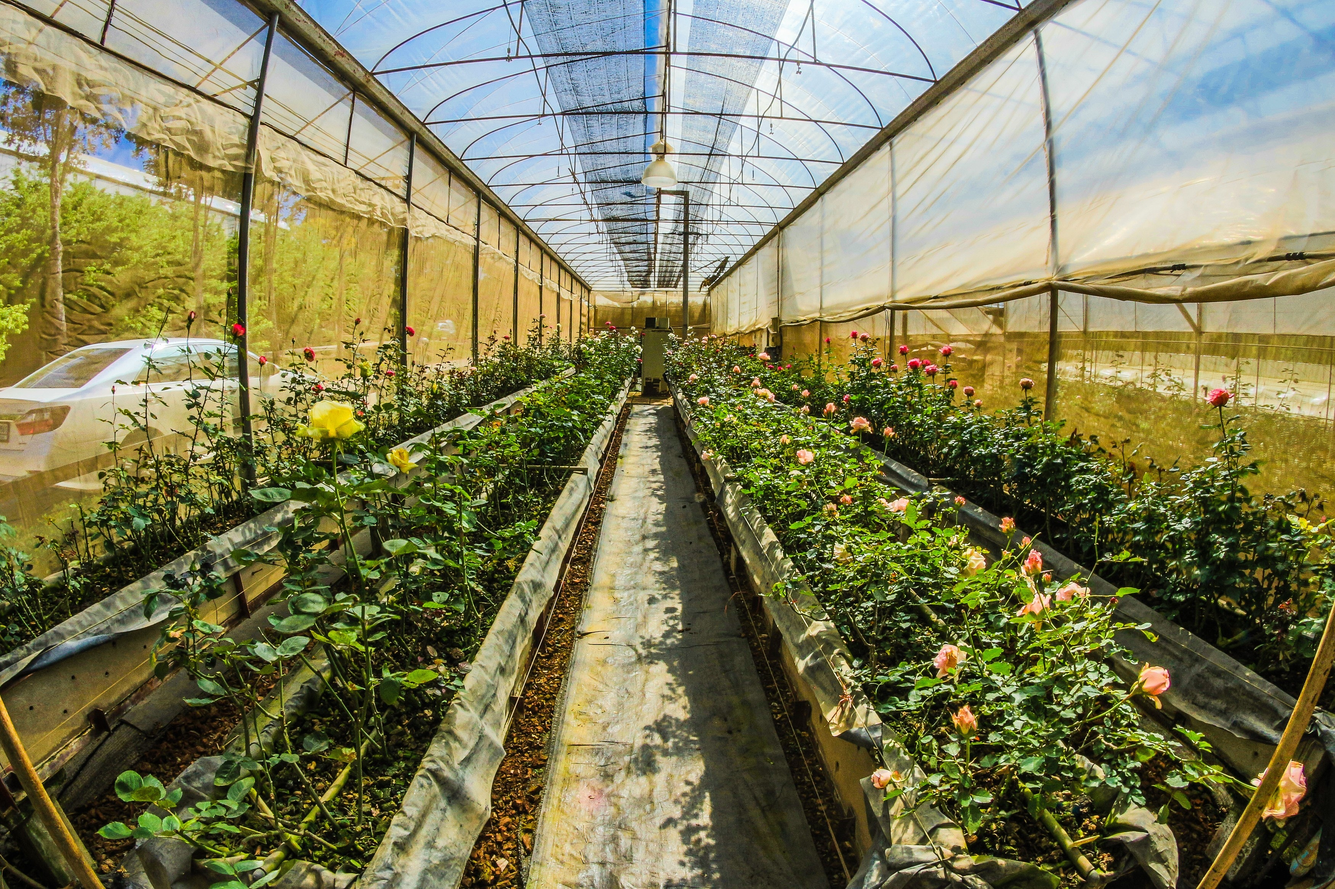
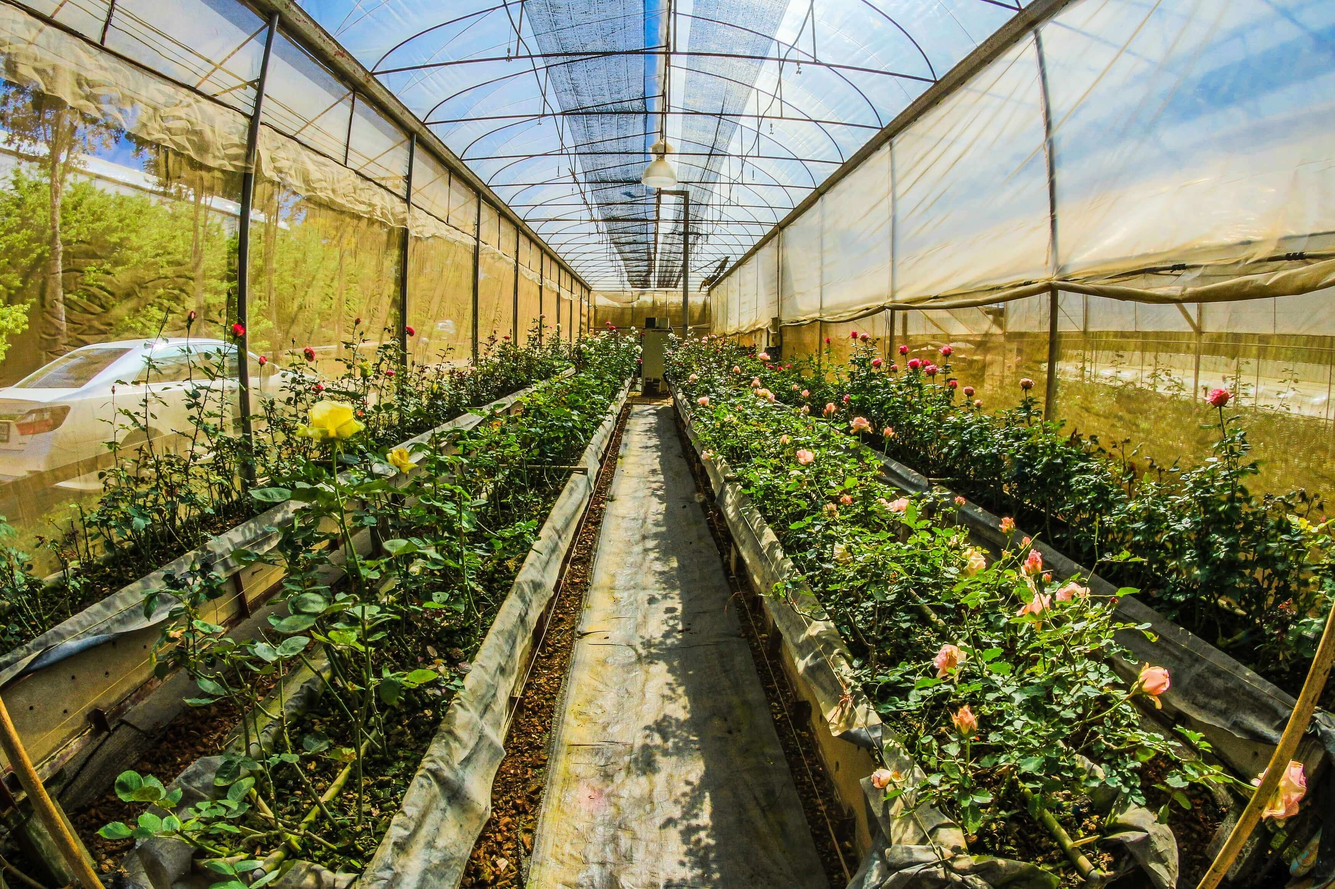
changed texts and optimize image

diff --git a/src/components/Features.js b/src/components/Features.js
@@ -37,7 +37,7 @@ const Features = () => (
         <Box height="small" width="small" alignSelf="center">
           <Image fit="cover" src={FeatureImage1} />
         </Box>
-        <Text margin={{ top: '10px' }}>It's Free</Text>
+        <Text margin={{ top: '10px' }}>Buy Local</Text>
       </FeatureBox>
       <FeatureBox>
         <Box height="small" width="small" alignSelf="center">

diff --git a/src/components/shared-components/Section.js b/src/components/shared-components/Section.js
@@ -1,0 +1,11 @@
+import styled from 'styled-components';
+
+const Section = styled.section`
+  padding: 8em 0;
+
+  @media screen and (max-width: 600px) {
+    padding: 4em 0;
+  }
+`;
+
+export default Section;

diff --git a/src/components/shared-components/Container.js b/src/components/shared-components/Container.js
@@ -1,0 +1,9 @@
+import styled from 'styled-components';
+
+const Container = styled.div`
+  width: 88%;
+  max-width: 1250px;
+  margin: 0 auto;
+`;
+
+export default Container;
